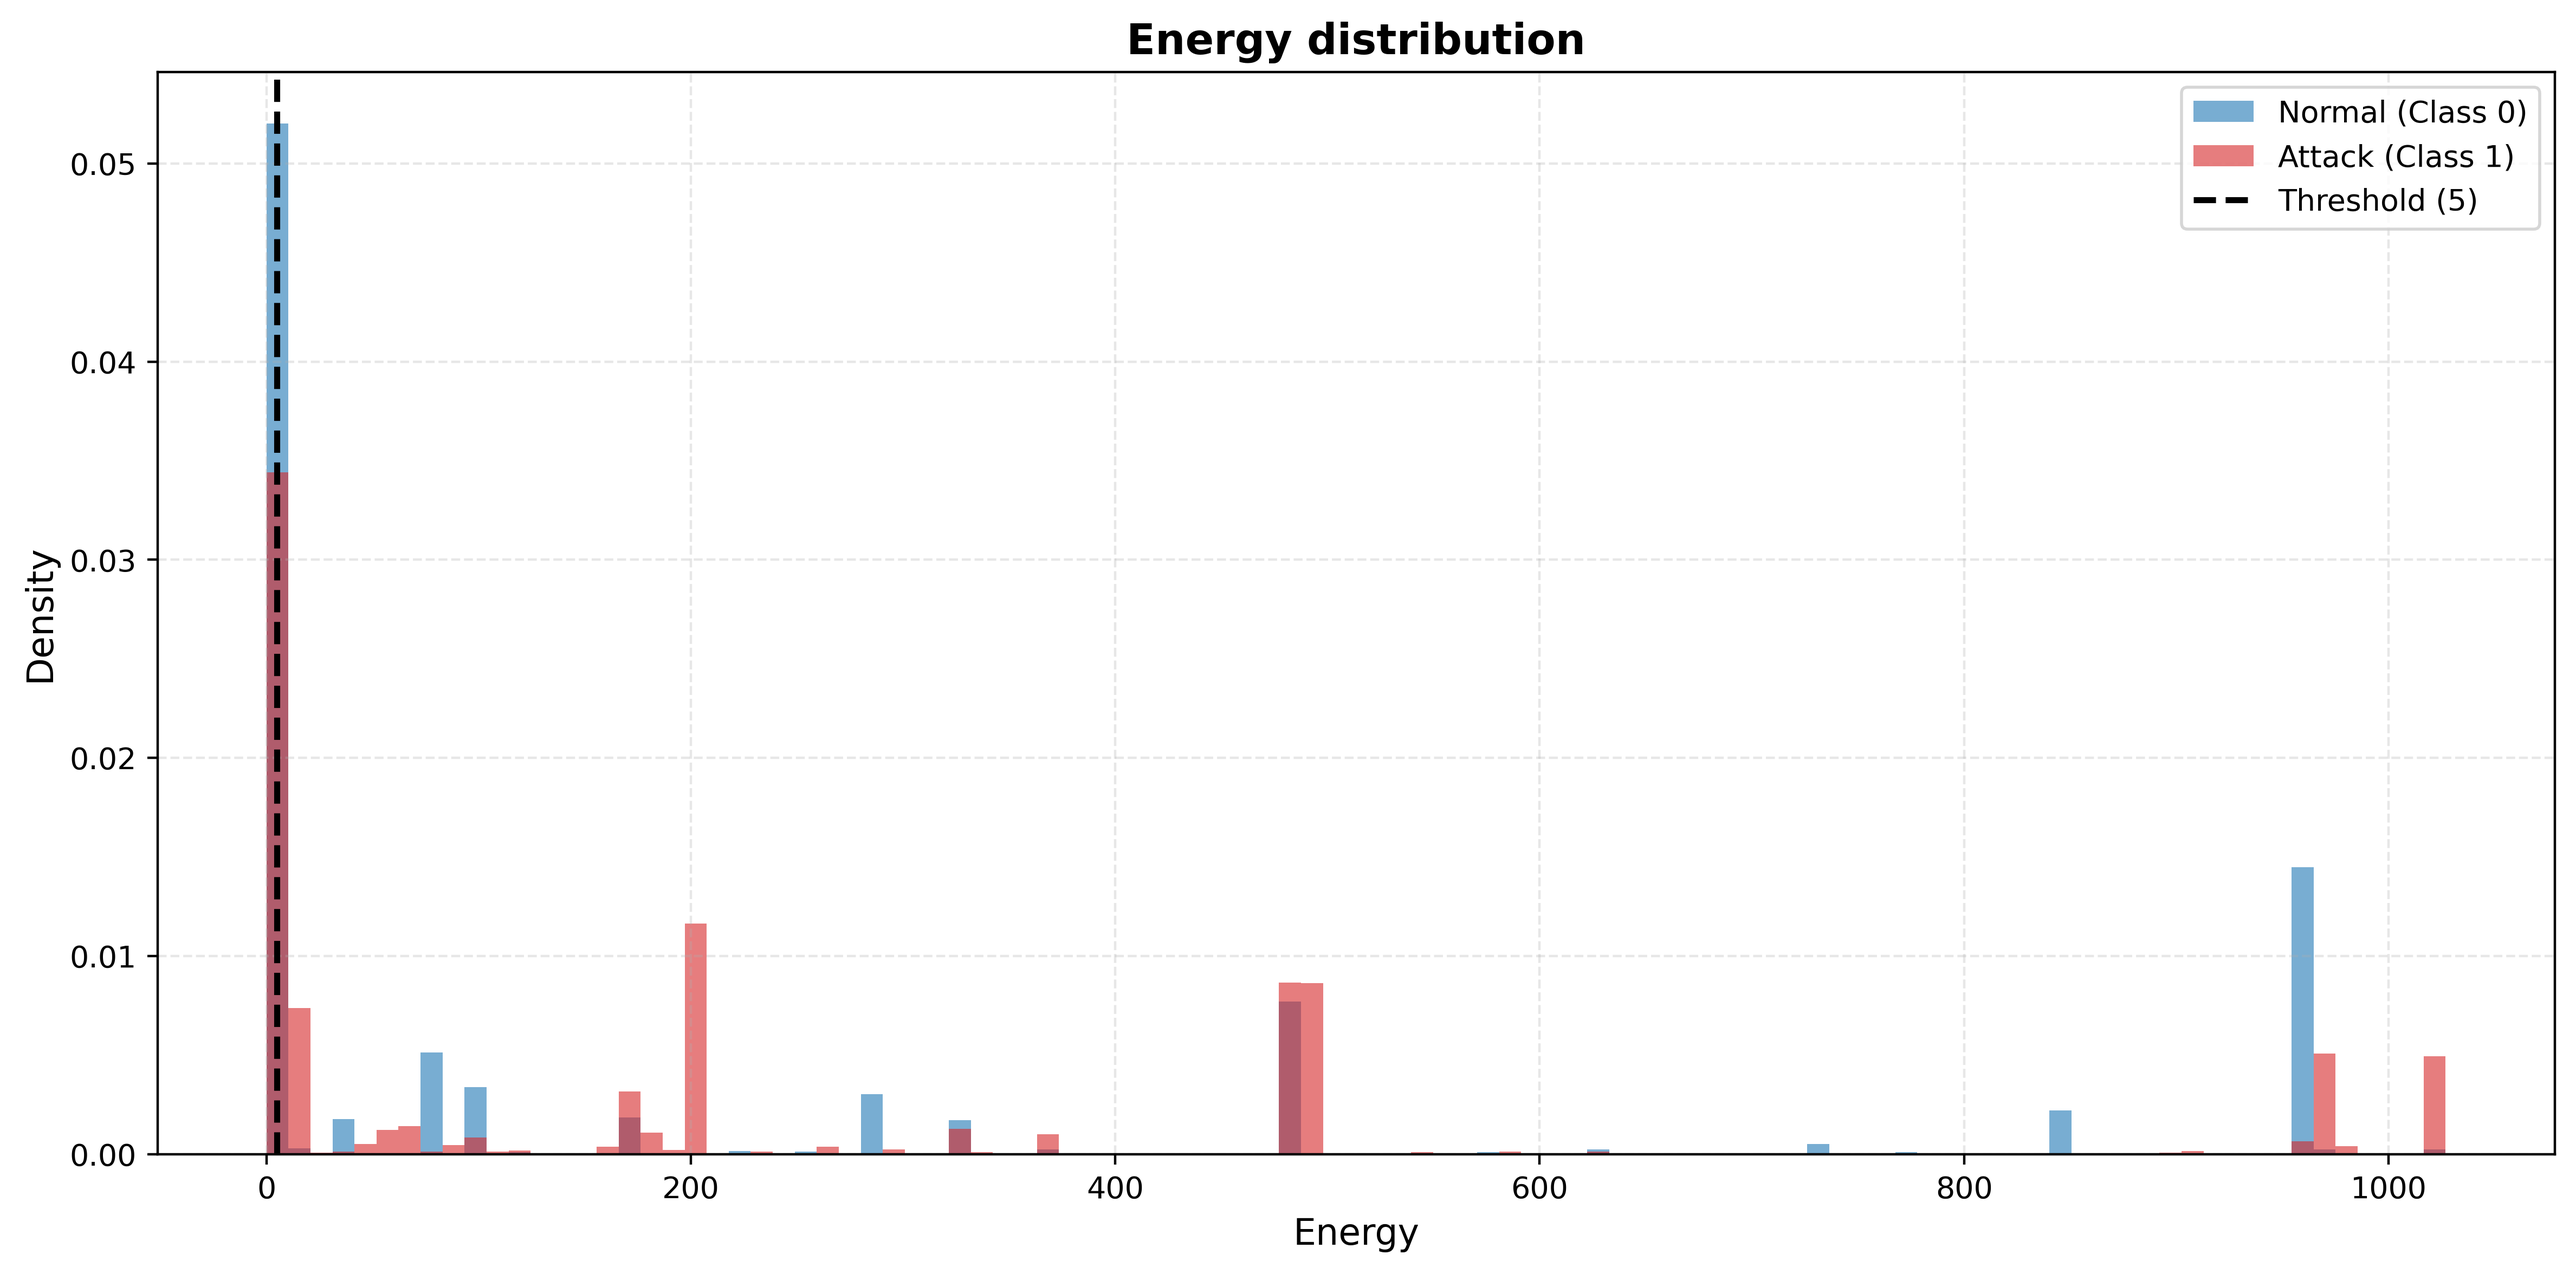
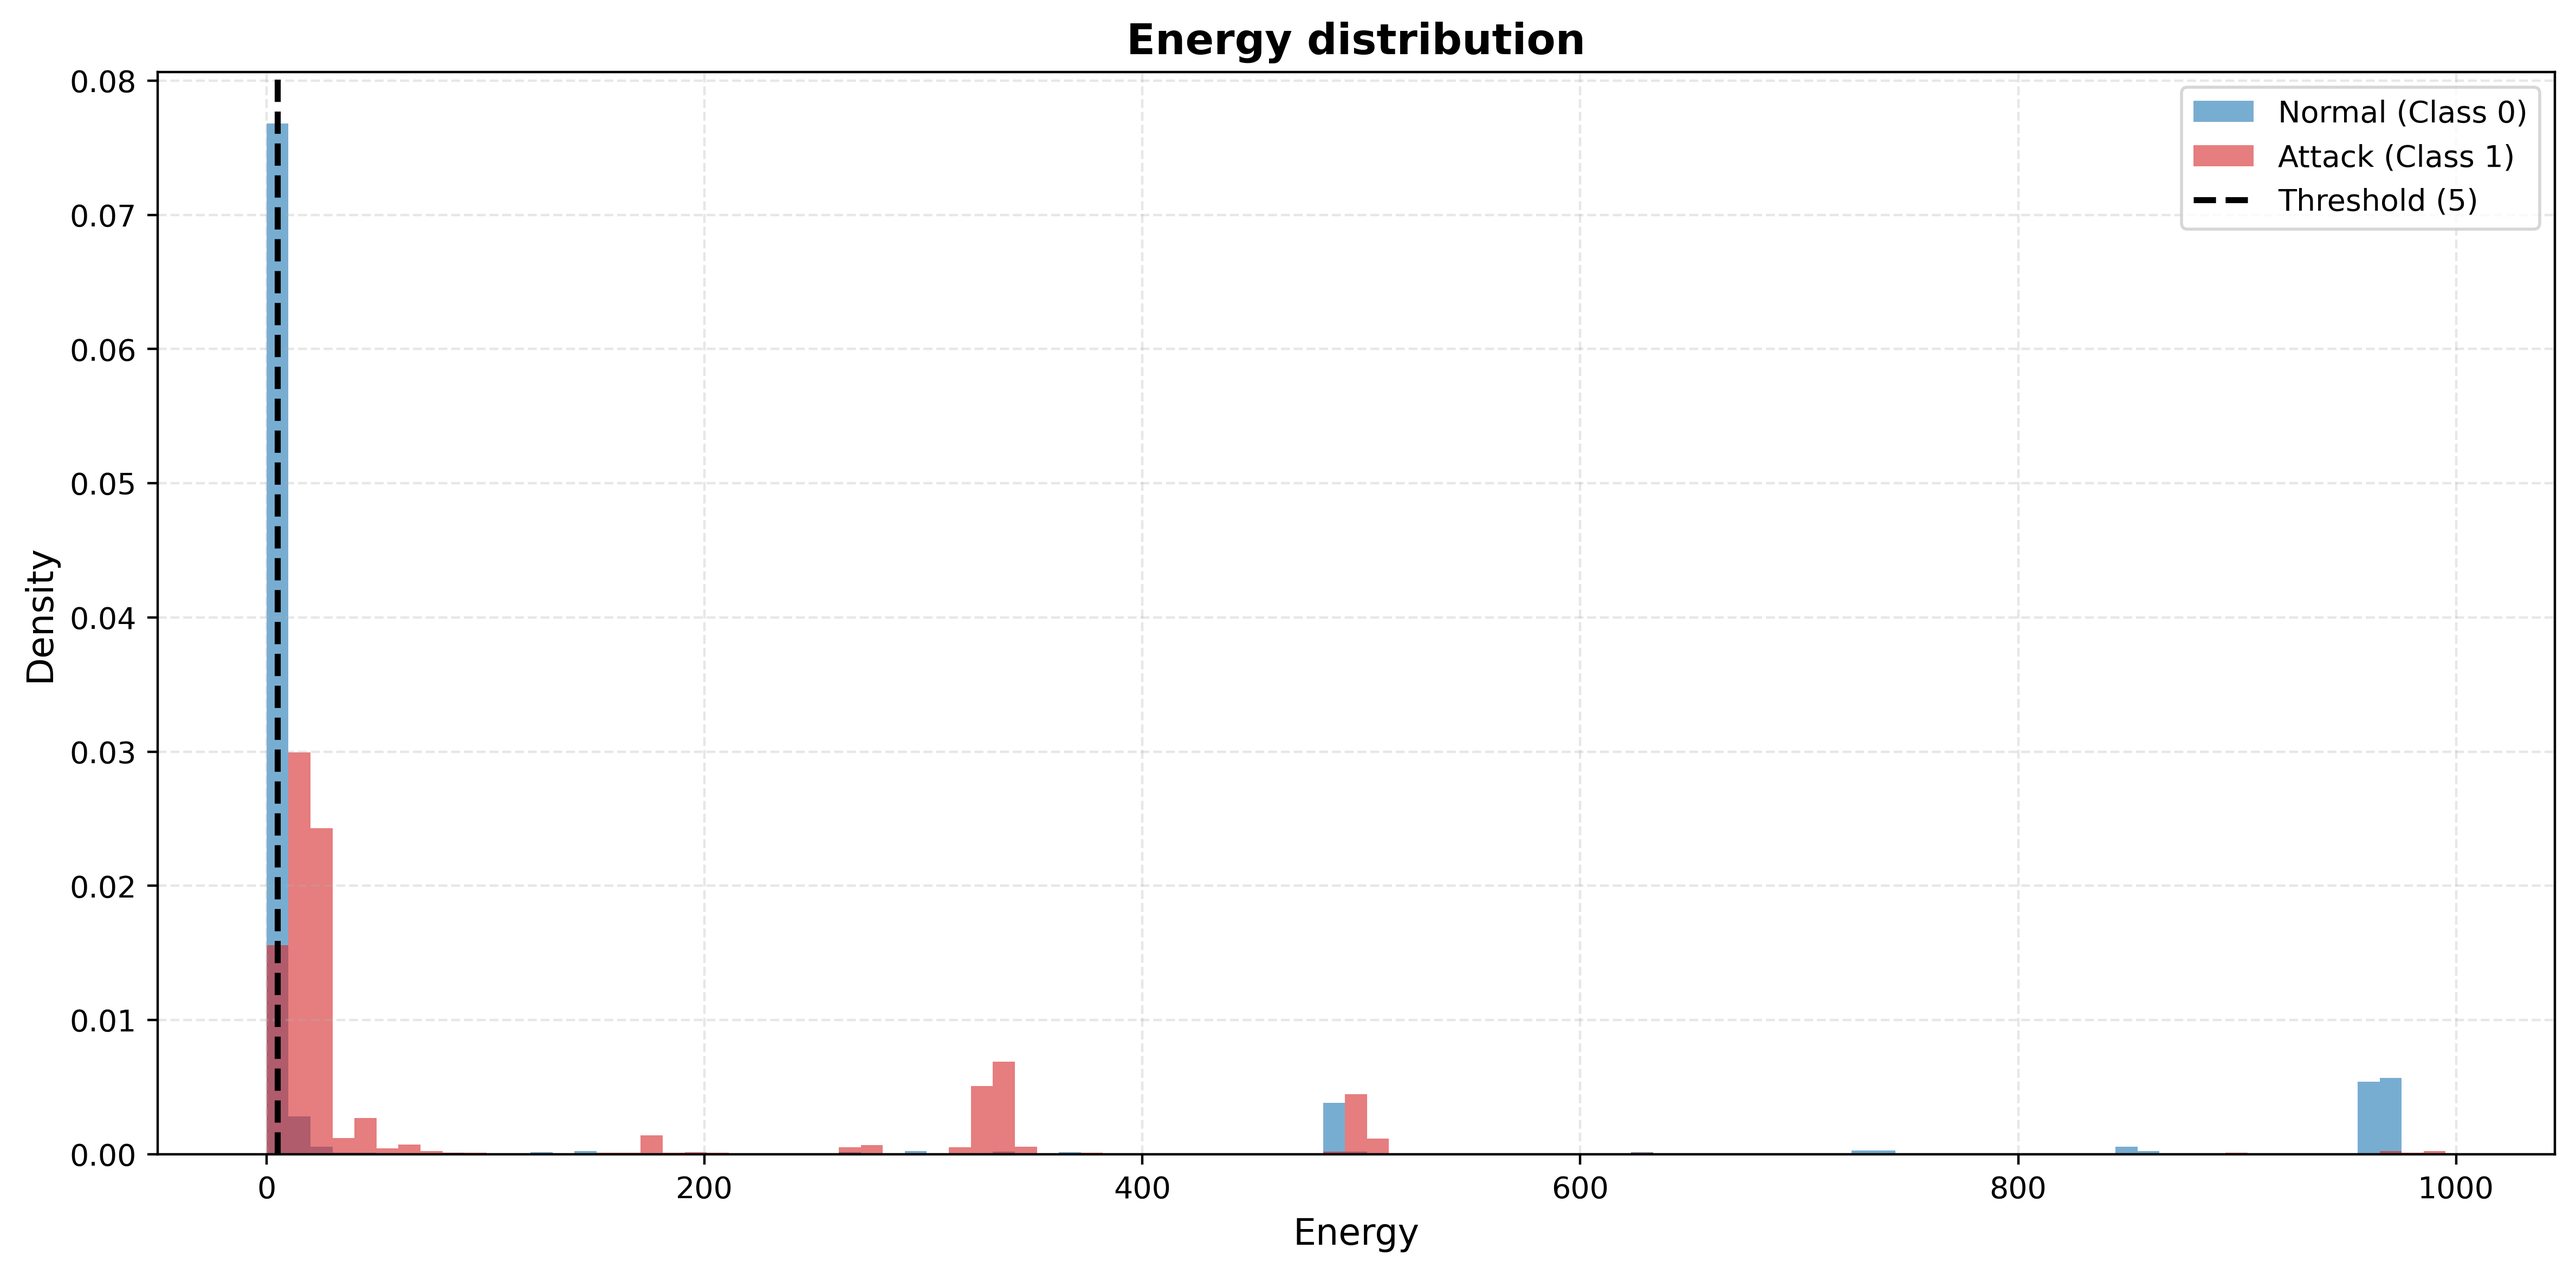
early stopping

diff --git a/PCN/trainer.py b/PCN/trainer.py
@@ -3,11 +3,14 @@ import time
 from tqdm import tqdm
 import torch.nn.functional as F
 
-def train_pcn_binary(model, data_loader, num_epochs,  eta_infer, eta_learn,
+from .early_stopping import EarlyStopping
+
+def train_pcn_binary(model, data_loader, num_epochs, eta_infer, eta_learn,
 T_infer, margin_attack = 200, device='mps'):
     
     model.to(device).train()
     optimizer_weights = torch.optim.AdamW(model.parameters(), lr=eta_learn)
+    early_stopping = EarlyStopping(patience=1, min_delta=0.1, path='best_pcn_weights.pth')
 
     print("training started")
     for epoch in range(num_epochs):
@@ -43,12 +46,14 @@ T_infer, margin_attack = 200, device='mps'):
             for p in model.parameters():
                 p.requires_grad = False
             
-            # INFERENCE 
+            mask_valid_infer = mask_normal + mask_unlabeled
+            
             for t in range(T_infer):
-
                 energy = model.compute_energy(latents, x_batch)
-                mean_energy = energy.mean()
-                mean_energy.backward()
+            
+                mean_energy_infer = (energy * mask_valid_infer).sum() / (mask_valid_infer.sum() + 1e-8)
+                
+                mean_energy_infer.backward()
 
                 with torch.no_grad():
                     for z in latents:
@@ -65,11 +70,18 @@ T_infer, margin_attack = 200, device='mps'):
             final_latents = [z.detach().requires_grad_(True) for z in latents]
             final_energy = model.compute_energy(final_latents, x_batch)
             prev_energy = final_energy.detach()
-
-                
-            loss_normal = (final_energy * mask_normal).mean()
-            loss_unlabeled = (final_energy * mask_unlabeled).mean()
-            loss_attack = ((F.relu(margin_attack - final_energy) * mask_attack).mean()) * 0.1
+            
+            num_normal = mask_normal.sum() + 1e-8
+            num_unlabeled = mask_unlabeled.sum() + 1e-8
+            num_attacks = mask_attack.sum() + 1e-8
+            
+            loss_normal = (final_energy * mask_normal).sum() / num_normal
+            loss_unlabeled = (final_energy * mask_unlabeled).sum() / num_unlabeled
+            
+            dynamic_margin = loss_normal.detach() + margin_attack
+            loss_attack_sum = (F.relu(dynamic_margin - final_energy) * mask_attack).sum()
+            loss_attack = (loss_attack_sum / num_attacks) # * 0.1
+            
             total_loss = loss_normal + loss_unlabeled + loss_attack
 
             total_loss.backward()
@@ -81,24 +93,12 @@ T_infer, margin_attack = 200, device='mps'):
             epoch_loss_atk += loss_attack.item()
             epoch_loss_unl += loss_unlabeled.item()
             num_batches = len(data_loader)
+            
         print(f"Epoch: {epoch + 1} | Tot: {epoch_loss/num_batches:.2f} | Norm: {epoch_loss_norm/num_batches:.2f} | Atk: {epoch_loss_atk/num_batches:.2f}")
-
-import math
-
-def calculate_adaptive_decay(time_since_anomaly, gamma_base=0.50, gamma_max=0.99, k_decay=0.2):
-    """
-    Calcola il fattore di decadimento della memoria latente (State-Dependent Forgetting).
-    
-    Args:
-        time_since_anomaly (int): Numero di batch trascorsi dall'ultimo evento ad alta energia.
-        gamma_base (float): Decadimento asintotico (oblio rapido per la normalità).
-        gamma_max (float): Decadimento iniziale (massima ritenzione al momento dello shock).
-        k_decay (float): Velocità di rilassamento (più è alto, più in fretta scende a gamma_base).
-        
-    Returns:
-        float: Il fattore di decadimento calcolato per il batch corrente.
-    """
-    return gamma_base + (gamma_max - gamma_base) * math.exp(-k_decay * time_since_anomaly)
+        early_stopping(epoch_loss/num_batches, model)
+        if early_stopping.early_stop:
+            print(f"Early stop at epoch: {epoch + 1}")
+            break
 
 
 def calculate_energy_based_decay(energy, gamma_base=0.95, gamma_shock=0.1, shock_scale=20.0):

diff --git a/experiment_5.py b/experiment_5.py
@@ -62,12 +62,12 @@ removed = False
 if not removed:
     X = remove_ip_fields(X)
     removed = True #we can re-run the cell
-X_train, X_test, y_train, y_test = split_dataset(X, y, test_size=0.2)
-X_train, y_ssl = create_ssl_dataset(X_train, y_train, label_ratio=0.99)
+X_train, X_test, y_train, y_test = split_dataset_temporal(X, y, test_size=0.2)
+#X_train, y_ssl = create_ssl_dataset(X_train, y_train, label_ratio=0.9999)
 
 print(X_train.shape)
-print(y_ssl.head())
-print(y_ssl.value_counts())
+#print(y_ssl.head())
+#print(y_ssl.value_counts())
 
 # %%
 X_train = cap_numerical_data(X_train, numerical_features)
@@ -92,19 +92,17 @@ from PCN.trainer import train_pcn_binary
 from PCN.PCNetwork import PredictiveCodingNetwork
 
 device = 'cuda'
-pcn = PredictiveCodingNetwork([41, 256, 128, 64, 32, 16])
+pcn = PredictiveCodingNetwork([41, 64, 32])
 X_tensor = torch.tensor(np.array(X_train), dtype=float32).to(device)
 print("X tensor ok")
-y_tensor = torch.tensor(np.array(y_ssl), dtype=float32).to(device)
+y_tensor = torch.tensor(np.array(y_train), dtype=float32).to(device)
 print("y tensor ok")
 print(X_train.shape)
-print(y_ssl.shape)
+print(y_train.shape)
 
-train_loader = DataLoader(TensorDataset(X_tensor, y_tensor), batch_size=2048, shuffle=False)
+train_loader = DataLoader(TensorDataset(X_tensor, y_tensor), batch_size=4096, shuffle=True)
 print("trainloader")
-num_epochs = 20
-print(num_epochs)
-train_pcn_binary(model=pcn, data_loader=train_loader, num_epochs=num_epochs, eta_infer=0.01, eta_learn=0.0003, T_infer=T_infer, margin_attack=200, device=device)
+train_pcn_binary(model=pcn, data_loader=train_loader, num_epochs=40, eta_infer=0.01, eta_learn=0.0005, T_infer=T_infer, margin_attack=500, device=device)
 torch.save(pcn.state_dict(), 'pcn_model_weights_2.pth')
 
 # %%
@@ -112,7 +110,7 @@ from utils.train_utils import  evaluate_pcn_anomaly
 from PCN.PCNetwork import PredictiveCodingNetwork
 device = 'cuda'
 
-pcn_loaded = PredictiveCodingNetwork([41, 256, 128, 64, 32, 16])
+pcn_loaded = PredictiveCodingNetwork([41, 64, 32])
 state_dict = torch.load('pcn_model_weights_2.pth', map_location=device)
 pcn_loaded.load_state_dict(state_dict)
 pcn_loaded.to(device)
@@ -121,6 +119,6 @@ y_test_tensor = torch.tensor(np.array(y_test), dtype=torch.float32).view(-1, 1).
 test_loader = DataLoader(TensorDataset(X_test_tensor, y_test_tensor), batch_size=2048, shuffle=False)
 pcn_loaded.eval()
 
-evaluate_pcn_anomaly(pcn_loaded, test_loader, T_infer=T_infer, eta_infer=0.01, threshold_energy=5, device=device, save_img=True)
+evaluate_pcn_anomaly(pcn_loaded, test_loader, T_infer=T_infer, eta_infer=0.01, threshold_energy=5, device=device)
 
 

diff --git a/PCN/early_stopping.py b/PCN/early_stopping.py
@@ -1,0 +1,26 @@
+import torch
+import numpy as np
+
+class EarlyStopping:
+    def __init__(self, patience=1, min_delta=0, path='best_pcn_model.pth'):
+        self.patience = patience
+        self.min_delta = min_delta
+        self.path = path
+        self.counter = 0
+        self.best_loss = np.inf
+        self.early_stop = False
+
+    def __call__(self, val_loss, model):
+        if val_loss < self.best_loss - self.min_delta:
+            self.best_loss = val_loss
+            self.save_checkpoint(model)
+            self.counter = 0  
+        else:
+            self.counter += 1
+            print(f"EarlyStopping counter: {self.counter} out of {self.patience}")
+            if self.counter >= self.patience:
+                self.early_stop = True
+
+    def save_checkpoint(self, model):
+        torch.save(model.state_dict(), self.path)
+        print(f"Modello migliorato! Pesi salvati in: {self.path}")
